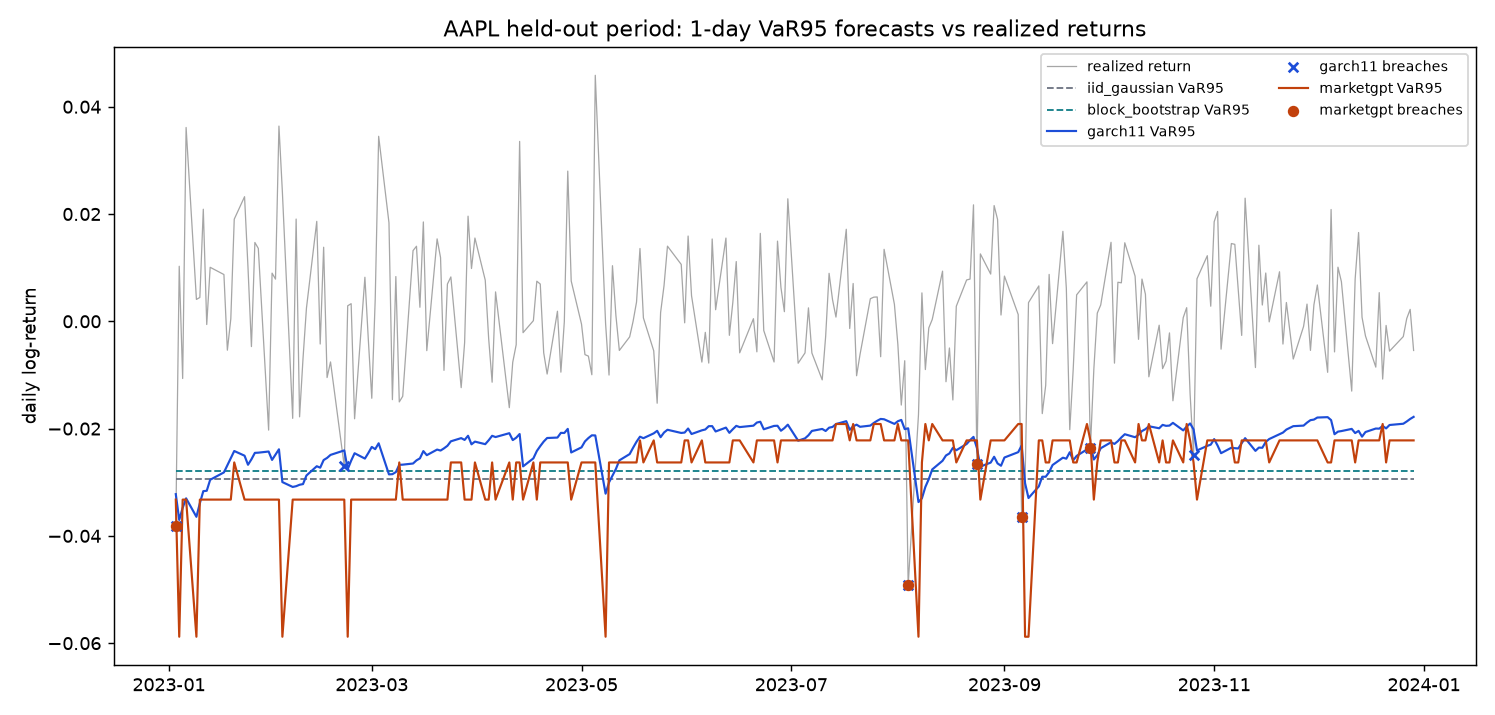
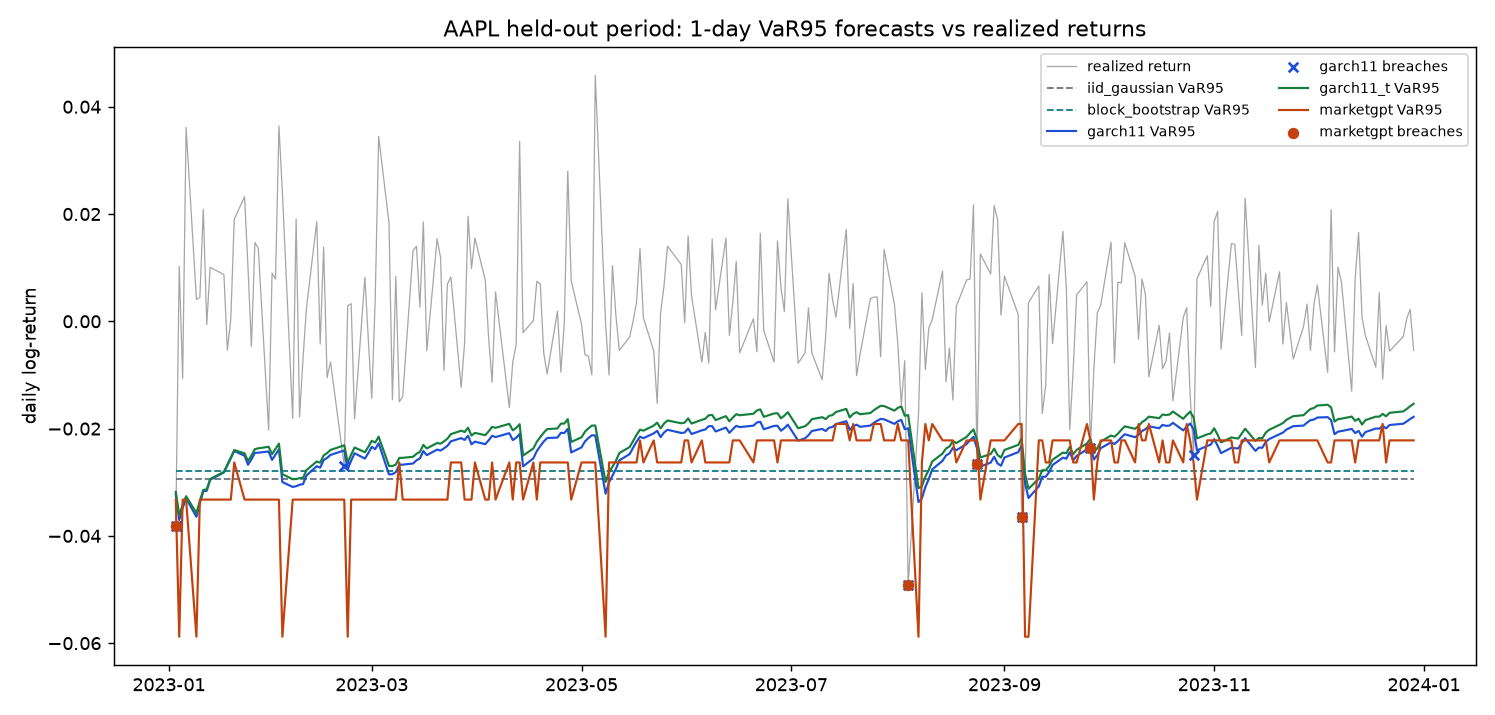
feat: Student-t GARCH — and it sweeps the clean bake-off
- Garch11(dist='t'): standardized-t MLE (nu fitted, gammaln loglik,
  penalty-bounded), shared _z_alpha quantile so batch var paths and
  StreamingGarch11 stay parity-exact; t-innovation sampling; simulate
  helper gains dist/nu. garch11_t added to build_generators and the
  live monitor engine (5 models now, ~0.15ms/tick).
- Result: t-GARCH is the ONLY model passing Kupiec + Christoffersen +
  CC at both levels on clean 2023 (4.60%/0.78% breach rates; p 0.10-
  0.86). Mechanism in README: unit-variance t has thinner shoulders
  (shallower 5% quantile -> more 95% breaches, offsetting regime
  over-coverage) and fatter tails (deeper 1% quantile -> tames
  normal-GARCH's 99% over-breaching).
- 5 new tests (90 total): t-MLE parameter recovery on simulated t-GARCH
  data, 99% tail deeper than normal, parity parametrized over dist,
  model-set updates. Monitor headlessly re-verified (Days 240->555).

diff --git a/marketlab/baselines.py b/marketlab/baselines.py
@@ -73,10 +73,15 @@ class BlockBootstrap:
 
 
 def simulate_garch11(omega: float, alpha: float, beta: float, n: int,
-                     seed: int = 0, mu: float = 0.0, burn: int = 500) -> np.ndarray:
-    """Simulate a GARCH(1,1) return series (raw units, normal innovations)."""
+                     seed: int = 0, mu: float = 0.0, burn: int = 500,
+                     dist: str = "normal", nu: float = 6.0) -> np.ndarray:
+    """Simulate a GARCH(1,1) return series (raw units; normal or standardized-t
+    innovations — the t draw is rescaled to unit variance)."""
     rng = np.random.default_rng(seed)
-    z = rng.normal(0.0, 1.0, n + burn)
+    if dist == "t":
+        z = rng.standard_t(nu, n + burn) * np.sqrt((nu - 2.0) / nu)
+    else:
+        z = rng.normal(0.0, 1.0, n + burn)
     sigma2 = omega / (1.0 - alpha - beta)
     out = np.empty(n + burn)
     e_prev = 0.0
@@ -87,34 +92,80 @@ def simulate_garch11(omega: float, alpha: float, beta: float, n: int,
     return out[burn:]
 
 
-def garch11_neg_loglik(params: np.ndarray, e_pct: np.ndarray) -> float:
-    """Negative log-likelihood of demeaned percent-returns under GARCH(1,1)."""
-    omega, alpha, beta = params
-    if omega <= 0 or alpha < 0 or beta < 0 or alpha + beta >= 0.999:
-        return 1e10  # penalty keeps L-BFGS-B inside the stationary region
+def _garch_sigma2_path(omega: float, alpha: float, beta: float,
+                       e_pct: np.ndarray) -> np.ndarray:
     n = len(e_pct)
     sigma2 = np.empty(n)
     sigma2[0] = e_pct.var()
     e2 = e_pct**2
     for t in range(1, n):
         sigma2[t] = omega + alpha * e2[t - 1] + beta * sigma2[t - 1]
-    return float(0.5 * np.sum(np.log(2.0 * np.pi) + np.log(sigma2) + e2 / sigma2))
+    return sigma2
+
+
+def garch11_neg_loglik(params: np.ndarray, e_pct: np.ndarray) -> float:
+    """Negative log-likelihood of demeaned percent-returns under GARCH(1,1)
+    with NORMAL innovations."""
+    omega, alpha, beta = params
+    if omega <= 0 or alpha < 0 or beta < 0 or alpha + beta >= 0.999:
+        return 1e10  # penalty keeps L-BFGS-B inside the stationary region
+    sigma2 = _garch_sigma2_path(omega, alpha, beta, e_pct)
+    return float(0.5 * np.sum(np.log(2.0 * np.pi) + np.log(sigma2) + e_pct**2 / sigma2))
+
+
+def garch11_t_neg_loglik(params: np.ndarray, e_pct: np.ndarray) -> float:
+    """Negative log-likelihood under STANDARDIZED-t innovations (unit variance,
+    nu > 2), the textbook fat-tail upgrade."""
+    from scipy.special import gammaln
+    omega, alpha, beta, nu = params
+    if omega <= 0 or alpha < 0 or beta < 0 or alpha + beta >= 0.999 or nu <= 2.05:
+        return 1e10
+    sigma2 = _garch_sigma2_path(omega, alpha, beta, e_pct)
+    z2 = e_pct**2 / sigma2
+    const = (gammaln((nu + 1.0) / 2.0) - gammaln(nu / 2.0)
+             - 0.5 * np.log(np.pi * (nu - 2.0)))
+    ll = np.sum(const - 0.5 * np.log(sigma2)
+                - ((nu + 1.0) / 2.0) * np.log1p(z2 / (nu - 2.0)))
+    return float(-ll)
 
 
 class Garch11:
-    """Hand-rolled GARCH(1,1) with normal innovations; the classical workhorse."""
+    """Hand-rolled GARCH(1,1); dist='normal' (workhorse) or 't' (standardized
+    Student-t innovations with fitted nu — the standard fat-tail upgrade)."""
+
+    def __init__(self, dist: str = "normal"):
+        if dist not in ("normal", "t"):
+            raise ValueError("dist must be 'normal' or 't'")
+        self.dist = dist
+        self.nu: float | None = None
+
+    def _z_alpha(self, alpha: float) -> float:
+        """Quantile of the (unit-variance) innovation distribution — shared by
+        the batch var paths and StreamingGarch11 so parity holds exactly."""
+        if self.dist == "t":
+            return float(stats.t.ppf(alpha, self.nu) * np.sqrt((self.nu - 2.0) / self.nu))
+        return float(stats.norm.ppf(alpha))
 
     def fit(self, returns: np.ndarray) -> "Garch11":
         r = np.asarray(returns, dtype=np.float64)
         self.mu = float(r.mean())
         e_pct = (r - self.mu) * _PCT
         var_pct = e_pct.var()
-        x0 = np.array([0.05 * var_pct, 0.05, 0.90])
-        res = optimize.minimize(
-            garch11_neg_loglik, x0, args=(e_pct,), method="L-BFGS-B",
-            bounds=[(1e-8, None), (0.0, 0.999), (0.0, 0.999)],
-        )
-        omega_pct, self.alpha, self.beta = res.x
+        if self.dist == "t":
+            x0 = np.array([0.05 * var_pct, 0.05, 0.90, 8.0])
+            res = optimize.minimize(
+                garch11_t_neg_loglik, x0, args=(e_pct,), method="L-BFGS-B",
+                bounds=[(1e-8, None), (0.0, 0.999), (0.0, 0.999), (2.1, 300.0)],
+            )
+            omega_pct, self.alpha, self.beta, self.nu = res.x
+            self.nu = float(self.nu)
+        else:
+            x0 = np.array([0.05 * var_pct, 0.05, 0.90])
+            res = optimize.minimize(
+                garch11_neg_loglik, x0, args=(e_pct,), method="L-BFGS-B",
+                bounds=[(1e-8, None), (0.0, 0.999), (0.0, 0.999)],
+            )
+            omega_pct, self.alpha, self.beta = res.x
         self.omega = float(omega_pct) / _PCT**2   # back to raw return units
         self.last_fit_converged = bool(res.success)
         return self
@@ -131,7 +182,12 @@ class Garch11:
 
     def sample(self, n_paths: int, horizon: int, seed: int | None = None) -> np.ndarray:
         rng = np.random.default_rng(seed)
-        z = rng.normal(0.0, 1.0, (n_paths, horizon))
+        if self.dist == "t":
+            z = rng.standard_t(self.nu, (n_paths, horizon)) * np.sqrt(
+                (self.nu - 2.0) / self.nu
+            )
+        else:
+            z = rng.normal(0.0, 1.0, (n_paths, horizon))
         sigma2 = np.full(n_paths, self.omega / max(1e-12, 1.0 - self.alpha - self.beta))
         e_prev = np.zeros(n_paths)
         out = np.empty((n_paths, horizon))
@@ -143,12 +199,12 @@ class Garch11:
 
     def var(self, history: np.ndarray, alpha: float) -> float:
         sigma_next = float(np.sqrt(self._filter_sigma2(history)[-1]))
-        return self.mu + sigma_next * float(stats.norm.ppf(alpha))
+        return self.mu + sigma_next * self._z_alpha(alpha)
 
     def var_series(self, returns: np.ndarray, test_start: int, alpha: float) -> np.ndarray:
         # One filter pass over the whole series; sigma2[t] uses info through t-1.
         sigma = np.sqrt(self._filter_sigma2(returns)[test_start:len(returns)])
-        return self.mu + sigma * float(stats.norm.ppf(alpha))
+        return self.mu + sigma * self._z_alpha(alpha)
 
 
 class MarketGPTGenerator:

diff --git a/tests/test_var_backtest.py b/tests/test_var_backtest.py
@@ -89,10 +89,10 @@ class TestMonitorFrames:
 
     def test_shapes_and_columns(self, frames):
         wide, long_df = frames
-        models = {"iid_gaussian", "block_bootstrap", "garch11"}
+        models = {"iid_gaussian", "block_bootstrap", "garch11", "garch11_t"}
         assert {f"VaR_{m}" for m in models} <= set(wide.columns)
         assert {f"Breach_{m}" for m in models} <= set(wide.columns)
-        assert len(long_df) == 3 * len(wide)
+        assert len(long_df) == 4 * len(wide)
         assert set(long_df["Model"]) == models
         assert wide["Date"].is_monotonic_increasing
         assert long_df["Date"].is_monotonic_increasing
@@ -112,7 +112,7 @@ class TestMonitorFrames:
         from marketlab.var_backtest import monitor_frames
         wide95, _ = monitor_frames(mini_universe, "AAA", 0.05, fit_end="2020-09-30")
         wide99, _ = monitor_frames(mini_universe, "AAA", 0.01, fit_end="2020-09-30")
-        for m in ("iid_gaussian", "block_bootstrap", "garch11"):
+        for m in ("iid_gaussian", "block_bootstrap", "garch11", "garch11_t"):
             assert (wide99[f"VaR_{m}"] < wide95[f"VaR_{m}"]).all()
 
     def test_unknown_ticker_raises(self, mini_universe):
@@ -125,7 +125,9 @@ def test_leaderboard_smoke_on_fixture(mini_universe):
     # No artifacts dir -> classical models only; fixture spans 2020-2021 so use
     # an in-range split with enough observations on both sides.
     table = leaderboard(mini_universe, artifacts_dir=None, fit_end="2020-09-30")
-    assert set(table["model"]) == {"iid_gaussian", "block_bootstrap", "garch11"}
+    assert set(table["model"]) == {
+        "iid_gaussian", "block_bootstrap", "garch11", "garch11_t",
+    }
     assert set(table["alpha"]) == {0.05, 0.01}
     assert (table["n_obs"] > 0).all()
     assert ((table["breach_rate"] >= 0) & (table["breach_rate"] <= 1)).all()

diff --git a/tests/test_baselines.py b/tests/test_baselines.py
@@ -92,10 +92,42 @@ class TestGarch11:
         assert abs(np.mean(acf(s, 20))) < 0.02
 
 
+class TestGarch11T:
+    TRUE = dict(omega=4e-6, alpha=0.08, beta=0.90, nu=6.0)
+
+    @pytest.fixture(scope="module")
+    def fitted_t(self):
+        sim = simulate_garch11(4e-6, 0.08, 0.90, 8000, seed=12, dist="t", nu=6.0)
+        return Garch11(dist="t").fit(sim), sim
+
+    def test_mle_recovers_parameters(self, fitted_t):
+        gen, _ = fitted_t
+        assert gen.last_fit_converged
+        assert gen.alpha == pytest.approx(self.TRUE["alpha"], abs=0.05)
+        assert gen.beta == pytest.approx(self.TRUE["beta"], abs=0.07)
+        assert 3.5 < gen.nu < 12.0  # nu is hard to pin; true value is 6
+
+    def test_t_tail_deeper_than_normal_at_99(self, fitted_t):
+        gen_t, sim = fitted_t
+        gen_n = Garch11().fit(sim)
+        history = sim[:1000]
+        # Fat-tailed innovations push the 1% quantile deeper for the same data;
+        # at 5% the standardized-t quantile is typically SHALLOWER (variance-1
+        # rescaling thins the shoulders) - only assert the tail direction.
+        assert gen_t.var(history, 0.01) < gen_n.var(history, 0.01)
+
+    def test_invalid_dist_raises(self):
+        with pytest.raises(ValueError, match="dist"):
+            Garch11(dist="cauchy")
+
+
 @pytest.mark.parametrize("gen_factory", [
     lambda: IIDGaussian().fit(TRAIN),
     lambda: BlockBootstrap().fit(TRAIN),
     lambda: Garch11().fit(simulate_garch11(4e-6, 0.08, 0.90, 4000, seed=6)),
+    lambda: Garch11(dist="t").fit(
+        simulate_garch11(4e-6, 0.08, 0.90, 4000, seed=6, dist="t", nu=6.0)
+    ),
 ])
 def test_var_deepens_with_confidence(gen_factory):
     gen = gen_factory()

diff --git a/marketlab/var_backtest.py b/marketlab/var_backtest.py
@@ -114,6 +114,7 @@ def build_generators(train_returns: np.ndarray, gpt: MarketGPTGenerator | None) 
         "iid_gaussian": IIDGaussian().fit(train_returns),
         "block_bootstrap": BlockBootstrap().fit(train_returns),
         "garch11": Garch11().fit(train_returns),
+        "garch11_t": Garch11(dist="t").fit(train_returns),
     }
     if gpt is not None:
         gens["marketgpt"] = gpt
@@ -275,6 +276,7 @@ def make_figure(prices_long: pd.DataFrame, artifacts_dir: str | None, ticker: st
         "iid_gaussian": dict(color="#6b7280", ls="--", lw=1.0),
         "block_bootstrap": dict(color="#0e7c86", ls="--", lw=1.0),
         "garch11": dict(color="#1d4ed8", ls="-", lw=1.2),
+        "garch11_t": dict(color="#15803d", ls="-", lw=1.2),
         "marketgpt": dict(color="#c2410c", ls="-", lw=1.2),
     }
     markers = {"garch11": ("x", "#1d4ed8"), "marketgpt": ("o", "#c2410c")}

diff --git a/marketlab/stream.py b/marketlab/stream.py
@@ -69,6 +69,7 @@ class StreamingGarch11:
         self.omega = batch.omega
         self.alpha = batch.alpha
         self.beta = batch.beta
+        self._z_alpha = batch._z_alpha  # normal or standardized-t quantile
         self._sigma2_next = self.omega / max(1e-12, 1.0 - self.alpha - self.beta)
 
     def warmup(self, returns: np.ndarray) -> None:
@@ -80,8 +81,7 @@ class StreamingGarch11:
         self._sigma2_next = self.omega + self.alpha * e2 + self.beta * self._sigma2_next
 
     def var(self, alpha: float) -> float:
-        from scipy import stats
-        return self.mu + float(np.sqrt(self._sigma2_next)) * float(stats.norm.ppf(alpha))
+        return self.mu + float(np.sqrt(self._sigma2_next)) * self._z_alpha(alpha)
 
 
 class StreamingMarketGPT:

diff --git a/scripts/var_monitor_dashboard.py b/scripts/var_monitor_dashboard.py
@@ -123,6 +123,7 @@ def build_run(ticker, alpha, replay_seconds):
         "iid_gaussian": StreamingIID(IIDGaussian().fit(warm_rets)),
         "block_bootstrap": StreamingBootstrap(BlockBootstrap().fit(warm_rets)),
         "garch11": StreamingGarch11(Garch11().fit(warm_rets)),
+        "garch11_t": StreamingGarch11(Garch11(dist="t").fit(warm_rets)),
         "marketgpt": StreamingMarketGPT(
             BUNDLE[0], BUNDLE[1], BUNDLE[2]["tickers"].index(ticker)
         ),

diff --git a/tests/test_stream.py b/tests/test_stream.py
@@ -35,8 +35,9 @@ def tiny_gpt():
     return model, tokenizer
 
 
-def test_garch_stream_batch_parity():
-    batch = Garch11().fit(RETURNS[:TEST_START])
+@pytest.mark.parametrize("dist", ["normal", "t"])
+def test_garch_stream_batch_parity(dist):
+    batch = Garch11(dist=dist).fit(RETURNS[:TEST_START])
     expected = batch.var_series(RETURNS, TEST_START, 0.05)
 
     stream = StreamingGarch11(batch)

diff --git a/README.md b/README.md
@@ -206,12 +206,12 @@ To retrain from scratch (a few minutes on Apple Silicon):
 
 ## Which generator should a risk desk trust? (VaR backtesting)
 
-`python -m marketlab.var_backtest` runs a judged bake-off: four scenario
+`python -m marketlab.var_backtest` runs a judged bake-off: five scenario
 generators behind one interface — iid Gaussian, 20-day block bootstrap,
-hand-rolled GARCH(1,1) ([marketlab/baselines.py](marketlab/baselines.py)), and
-MarketGPT, whose per-step softmax over return buckets *is* a conditional
-distribution forecast, so its VaR is a cumulative-probability read off one
-forward pass.
+hand-rolled GARCH(1,1) with normal and with Student-t innovations
+([marketlab/baselines.py](marketlab/baselines.py)), and MarketGPT, whose
+per-step softmax over return buckets *is* a conditional distribution forecast,
+so its VaR is a cumulative-probability read off one forward pass.
 
 **Leak-free protocol.** MarketGPT trains on 2014-2021 and early-stops on 2022
 only; the classical models fit on everything through 2022 (strictly *more*
@@ -227,33 +227,39 @@ prior day. Scoring is the regulated kind:
 - **Basel traffic light**: the regulatory zones for 99% VaR (breaches per 250
   days: green < 5, yellow 5-9, red >= 10).
 
-| model           | 95% breach rate | 99% breach rate | Christoffersen p (95%) | 99% light |
-|-----------------|-----------------|-----------------|------------------------|-----------|
-| iid Gaussian    | 2.42%           | 0.64%           | 0.096                  | green     |
-| block bootstrap | 3.08%           | 0.36%           | 0.026                  | green     |
-| GARCH(1,1)      | **3.94%**       | 1.40%           | **0.292**              | green     |
-| MarketGPT       | 3.84%           | 0.58%           | 0.016                  | green     |
+| model           | 95% breach rate | Kupiec p (95%) | 99% breach rate | Kupiec p (99%) | Christoffersen p (95%) | 99% light |
+|-----------------|-----------------|----------------|-----------------|----------------|------------------------|-----------|
+| iid Gaussian    | 2.42%           | 0.000          | 0.64%           | 0.006          | 0.096                  | green     |
+| block bootstrap | 3.08%           | 0.000          | 0.36%           | 0.000          | 0.026                  | green     |
+| GARCH(1,1)-N    | 3.94%           | 0.000          | 1.40%           | 0.007          | 0.292                  | green     |
+| **GARCH(1,1)-t**| **4.60%**       | **0.189**      | **0.78%**       | **0.104**      | **0.856**              | green     |
+| MarketGPT       | 3.84%           | 0.000          | 0.58%           | 0.001          | 0.016                  | green     |
 
-**The headline result is that the leakage fix changed the verdict — which is
-the whole reason such fixes matter.** An earlier run of this bake-off tested
-on 2022-2023, the same window MarketGPT's checkpoint had been early-stopped
-on (a disclosed selection caveat at the time); there, MarketGPT looked
-uniquely well calibrated, passing Kupiec at both levels while everything else
-failed. On the clean 2023-only protocol, **every model fails Kupiec at both
-levels — in the conservative direction**: all four fit on data containing
-2022's turbulence and then over-covered 2023's calm (breach rates 2.4-3.9%
-against a 5% target). Regime shift dominates model choice. GARCH, whose
-variance recursion adapts fastest, tracks the calm-down best; MarketGPT is
-second-closest at 95% and has the cleanest 99% breach independence (p=0.56),
-but under-breaches like everything else. All four are Basel-green at 99% —
-the traffic light only penalizes *excess* breaches, so over-coverage reads as
+Two findings worth the whole project. **First, the leakage fix changed the
+verdict — which is the whole reason such fixes matter.** An earlier run
+tested on 2022-2023, the same window MarketGPT's checkpoint had been
+early-stopped on (a disclosed selection caveat at the time); there, MarketGPT
+looked uniquely well calibrated. On the clean 2023-only protocol, nearly
+every model fails Kupiec **in the conservative direction**: fit on data
+containing 2022's turbulence, they over-covered 2023's calm. Regime shift
+dominates model choice; all five are Basel-green at 99% because the traffic
+light only penalizes *excess* breaches — over-coverage reads as
 compliant-but-capital-inefficient, which is exactly how a risk desk would
 describe it.
 
+**Second, the classical fat-tail upgrade wins outright.** Student-t GARCH is
+the only model passing every coverage test at both levels, and the mechanism
+is a beautiful exam answer: a *unit-variance* Student-t has thinner shoulders
+than a normal (its 5% quantile is shallower, so t-GARCH breaches more at 95%,
+offsetting the regime over-coverage) and fatter tails (its 1% quantile is
+deeper, taming normal-GARCH's 99% over-breaching). Same variance recursion,
+right innovation distribution, both calibration errors fixed at once.
+MarketGPT keeps the cleanest 99% breach independence among the rest (p=0.56)
+but under-breaches like everything except t-GARCH.
+
 ![VaR backtest: AAPL detail](artifacts/var_backtest.png)
 
-Remaining caveats, disclosed rather than buried: GARCH here uses normal
-innovations (Student-t is the standard upgrade); with n = 5,000 pooled days
+Remaining caveats, disclosed rather than buried: with n = 5,000 pooled days
 the coverage tests are powerful enough to reject economically small
 deviations; and one calm test year is one draw — the over-coverage finding
 says as much about 2023 as about the models.
@@ -345,6 +351,8 @@ on every push once the repo has a GitHub remote.
   ticking scorecard, breach blotter, and traffic-light zones, upgraded to
   per-tick listener inference (models in the loop, latency measured live,
   stream/batch parity tested).
-- **Later (optional):** Student-t GARCH, joint
-  multi-ticker generation (correlation under stress), live ticking data
-  (e.g. Alpaca, Alpha Vantage) into the engine.
+- **Done:** Student-t GARCH — the only model passing every coverage test on
+  the clean protocol; the fat-tail upgrade fixes both calibration errors at
+  once.
+- **Later (optional):** joint multi-ticker generation (correlation under
+  stress), live ticking data (e.g. Alpaca, Alpha Vantage) into the engine.
